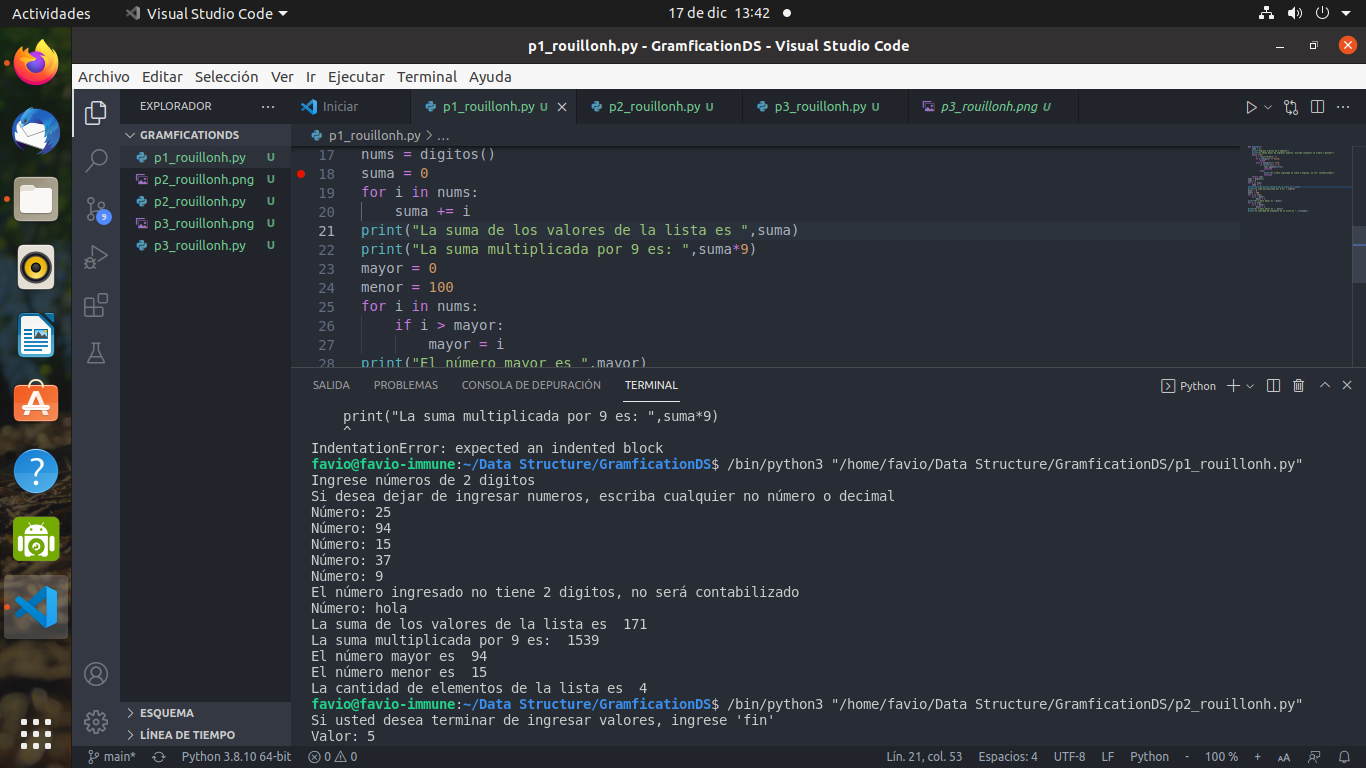
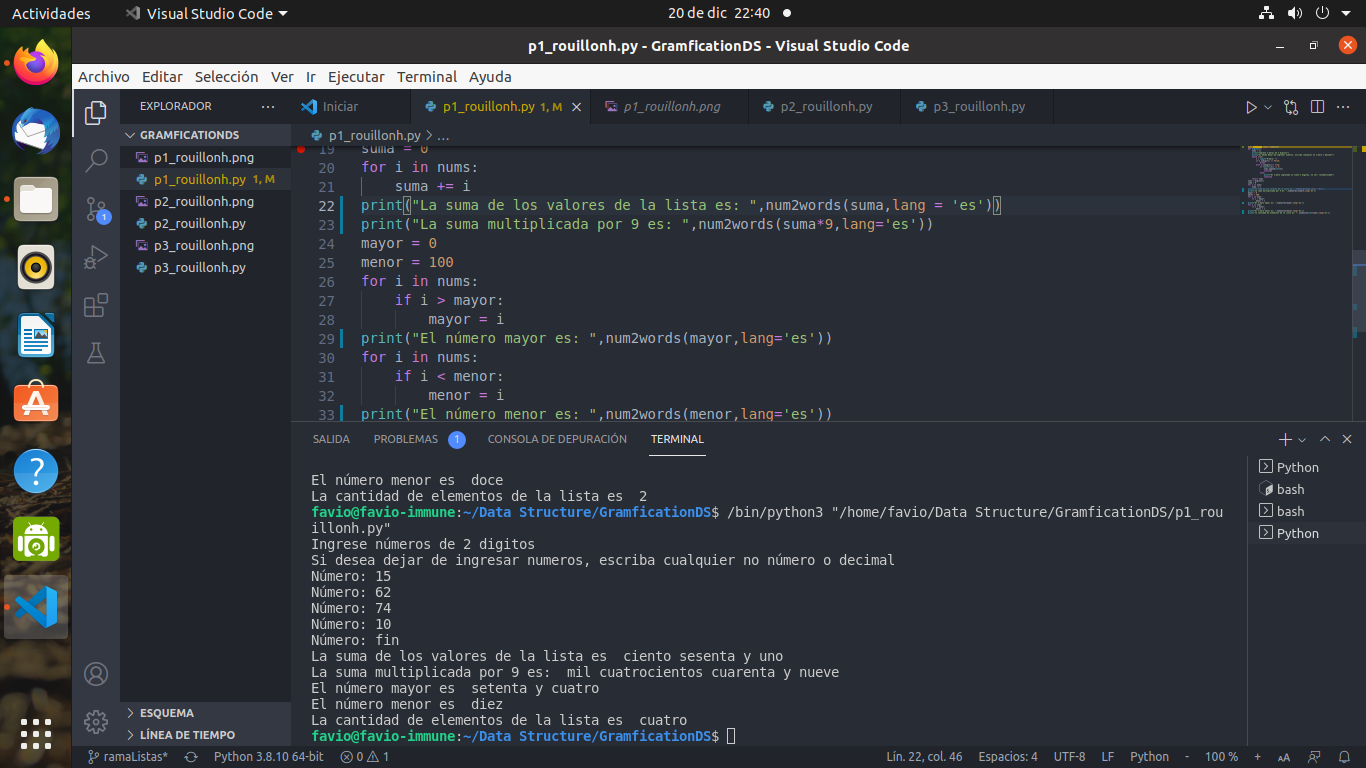
gramification

diff --git a/p1_rouillonh.py b/p1_rouillonh.py
@@ -1,3 +1,4 @@
+from num2words import num2words 
 def digitos():
     nums = []
     print("Ingrese números de 2 digitos")
@@ -18,16 +19,16 @@ nums = digitos()
 suma = 0
 for i in nums:
     suma += i
-print("La suma de los valores de la lista es ",suma)
-print("La suma multiplicada por 9 es: ",suma*9)
+print("La suma de los valores de la lista es: ",num2words(suma,lang = 'es'))
+print("La suma multiplicada por 9 es: ",num2words(suma*9,lang='es'))
 mayor = 0
 menor = 100
 for i in nums:
     if i > mayor:
         mayor = i
-print("El número mayor es ",mayor)
+print("El número mayor es: ",num2words(mayor,lang='es'))
 for i in nums:
     if i < menor:
         menor = i
-print("El número menor es ", menor)
-print("La cantidad de elementos de la lista es ", len(nums))
+print("El número menor es: ",num2words(menor,lang='es'))
+print("La cantidad de elementos de la lista es: ", num2words(len(nums),lang='es'))
